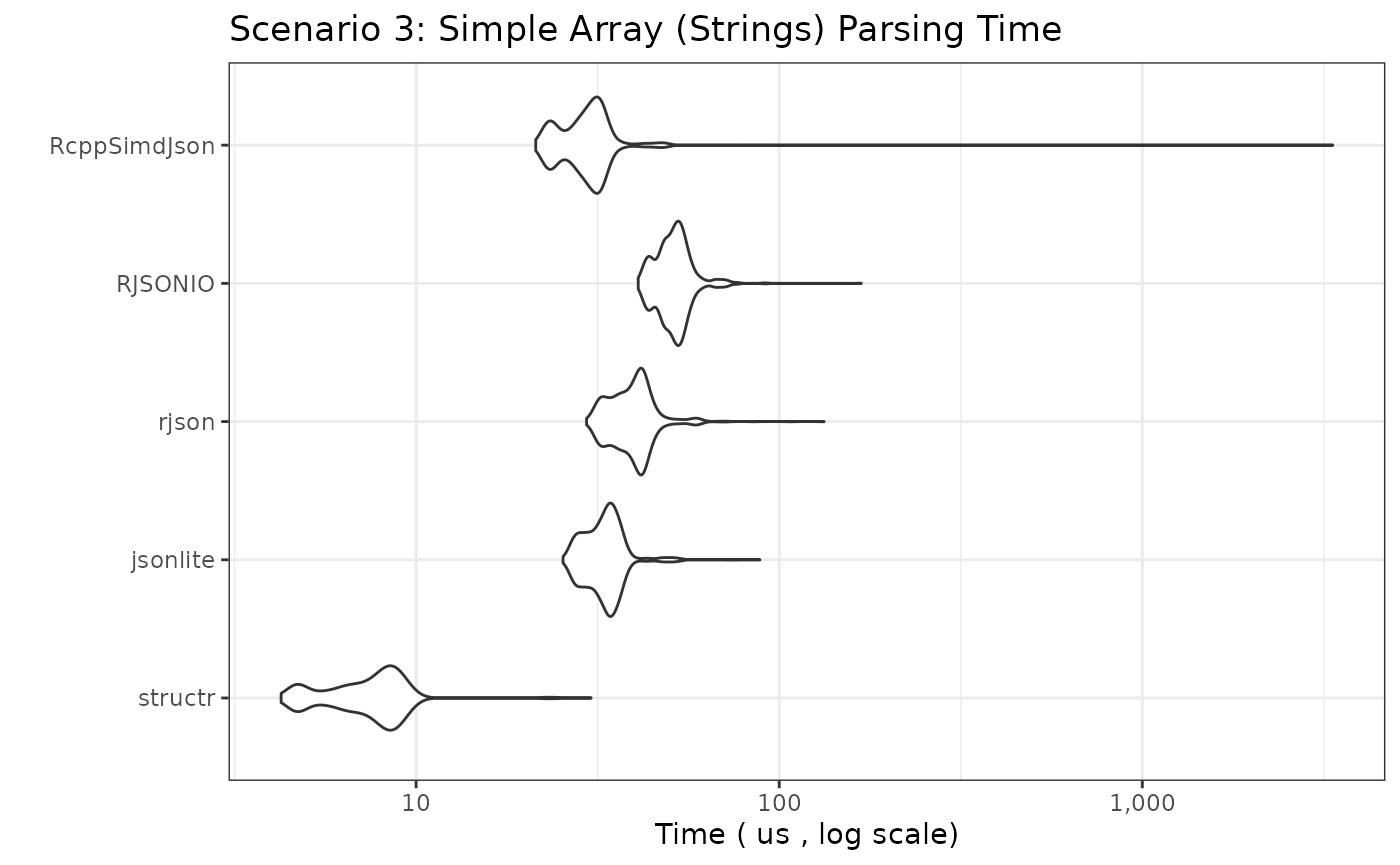
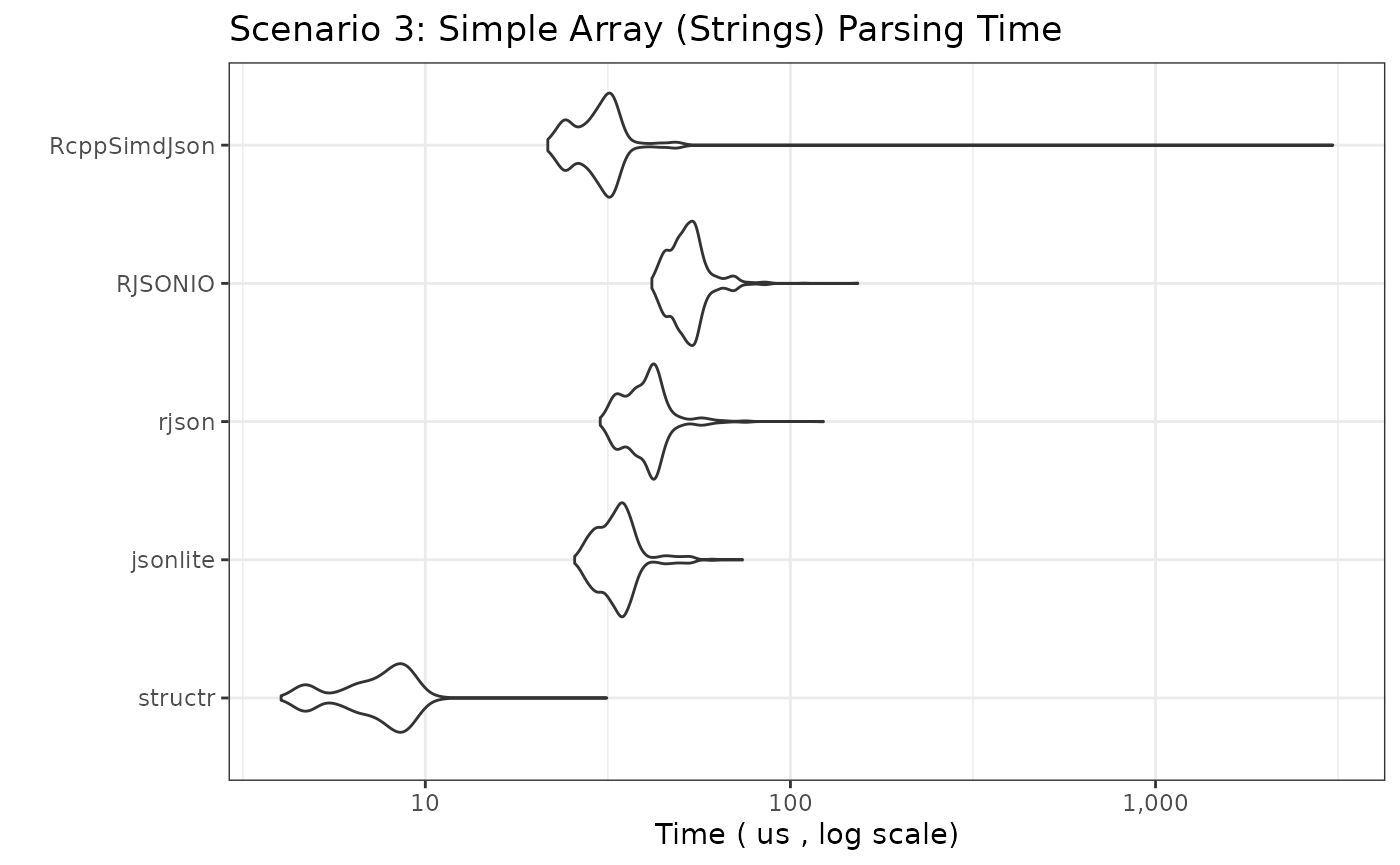
Deploying to gh-pages from @ ixpantia/structr@80949aa1ba5bb0932cfc9f256ea0445ccbe4c675 🚀

diff --git a/articles/bench.html b/articles/bench.html
@@ -161,11 +161,11 @@ speed.</p>
 <span><span class="op">)</span></span></code></pre></div>
 <pre><code><span><span class="co">## Unit: microseconds</span></span>
 <span><span class="co">##          expr    min      lq      mean  median      uq      max neval</span></span>
-<span><span class="co">##       structr  4.698  7.3180  9.256839  9.3575 10.5345   42.139  1000</span></span>
-<span><span class="co">##      jsonlite 41.658 49.8630 56.571854 53.1990 62.7470  134.792  1000</span></span>
-<span><span class="co">##         rjson 27.752 36.1070 44.893864 40.9360 45.5255 2759.507  1000</span></span>
-<span><span class="co">##       RJSONIO 33.923 42.7745 48.405070 47.2935 52.2120  120.584  1000</span></span>
-<span><span class="co">##  RcppSimdJson 20.859 27.6070 31.801147 30.7975 33.9635   83.676  1000</span></span></code></pre>
+<span><span class="co">##       structr  4.739  7.6195  9.531368  9.6075 10.7400   34.294  1000</span></span>
+<span><span class="co">##      jsonlite 42.359 50.8900 57.474889 54.3760 63.5180  150.040  1000</span></span>
+<span><span class="co">##         rjson 28.032 36.9490 45.327698 41.5925 46.6675 2754.062  1000</span></span>
+<span><span class="co">##       RJSONIO 35.386 43.6870 49.420515 48.2950 53.4000  112.721  1000</span></span>
+<span><span class="co">##  RcppSimdJson 20.979 28.3025 32.683047 31.7790 35.4560   69.149  1000</span></span></code></pre>
 <p><img src="bench_files/figure-html/bm_simple_object-1.png" width="700" style="display: block; margin: auto;"></p>
 </div>
 <div class="section level3">
@@ -186,12 +186,12 @@ speed.</p>
 <span>  y_label <span class="op">=</span> <span class="fu"><a href="https://rdrr.io/r/base/paste.html" class="external-link">paste</a></span><span class="op">(</span><span class="st">"Time ("</span>, <span class="va">benchmark_unit_fast</span>, <span class="st">", log scale)"</span><span class="op">)</span></span>
 <span><span class="op">)</span></span></code></pre></div>
 <pre><code><span><span class="co">## Unit: microseconds</span></span>
-<span><span class="co">##          expr    min      lq      mean  median      uq      max neval</span></span>
-<span><span class="co">##       structr  3.847  6.0410  7.711841  7.9445  8.9670   30.316  1000</span></span>
-<span><span class="co">##      jsonlite 32.481 38.0660 41.943541 41.5775 44.0070   94.826  1000</span></span>
-<span><span class="co">##         rjson 32.410 37.8505 43.138926 43.4510 46.3065  139.109  1000</span></span>
-<span><span class="co">##       RJSONIO 44.874 53.3295 57.747802 57.2065 60.4025  150.531  1000</span></span>
-<span><span class="co">##  RcppSimdJson 21.269 26.0690 33.347010 30.2520 32.7010 3604.793  1000</span></span></code></pre>
+<span><span class="co">##          expr    min      lq      mean  median     uq      max neval</span></span>
+<span><span class="co">##       structr  3.827  6.0865  7.612567  7.8450  8.926   27.732  1000</span></span>
+<span><span class="co">##      jsonlite 32.220 37.8110 41.422558 41.0520 43.581   82.504  1000</span></span>
+<span><span class="co">##         rjson 32.211 38.3315 43.097983 43.3655 46.246  114.724  1000</span></span>
+<span><span class="co">##       RJSONIO 45.965 53.3795 61.123997 57.5125 60.924 3058.931  1000</span></span>
+<span><span class="co">##  RcppSimdJson 21.270 26.0485 30.165365 30.5470 32.816   83.606  1000</span></span></code></pre>
 <p><img src="bench_files/figure-html/bm_simple_array_int-1.png" width="700" style="display: block; margin: auto;"></p>
 </div>
 <div class="section level3">
@@ -212,12 +212,12 @@ speed.</p>
 <span>  y_label <span class="op">=</span> <span class="fu"><a href="https://rdrr.io/r/base/paste.html" class="external-link">paste</a></span><span class="op">(</span><span class="st">"Time ("</span>, <span class="va">benchmark_unit_fast</span>, <span class="st">", log scale)"</span><span class="op">)</span></span>
 <span><span class="op">)</span></span></code></pre></div>
 <pre><code><span><span class="co">## Unit: microseconds</span></span>
-<span><span class="co">##          expr    min      lq      mean  median     uq      max neval</span></span>
-<span><span class="co">##       structr  4.248  6.1410  7.561703  7.7540  8.641   30.326  1000</span></span>
-<span><span class="co">##      jsonlite 25.388 30.0255 33.230057 33.2220 35.251   88.445  1000</span></span>
-<span><span class="co">##         rjson 29.475 35.4760 39.751817 39.7645 42.379  132.897  1000</span></span>
-<span><span class="co">##       RJSONIO 40.896 47.7545 51.535413 51.2760 54.221  168.193  1000</span></span>
-<span><span class="co">##  RcppSimdJson 21.350 25.9085 32.873964 29.8355 32.100 3346.923  1000</span></span></code></pre>
+<span><span class="co">##          expr    min      lq      mean  median      uq      max neval</span></span>
+<span><span class="co">##       structr  4.027  6.3515  7.577301  7.8150  8.7210   31.419  1000</span></span>
+<span><span class="co">##      jsonlite 25.648 30.4770 33.981053 33.5525 35.7825   73.928  1000</span></span>
+<span><span class="co">##         rjson 30.136 36.1425 40.461900 40.5205 43.0855  123.150  1000</span></span>
+<span><span class="co">##       RJSONIO 41.737 48.3950 52.873817 52.1170 55.3340  152.876  1000</span></span>
+<span><span class="co">##  RcppSimdJson 21.651 26.4750 33.131584 30.3515 32.5210 3058.911  1000</span></span></code></pre>
 <p><img src="bench_files/figure-html/bm_simple_array_str-1.png" width="700" style="display: block; margin: auto;"></p>
 </div>
 <div class="section level3">
@@ -240,11 +240,11 @@ speed.</p>
 <span><span class="op">)</span></span></code></pre></div>
 <pre><code><span><span class="co">## Unit: microseconds</span></span>
 <span><span class="co">##          expr    min      lq     mean  median      uq      max neval</span></span>
-<span><span class="co">##       structr 17.402 22.2415 25.67400 25.6175 27.7370   77.064  1000</span></span>
-<span><span class="co">##      jsonlite 26.640 33.0520 40.35122 36.9845 39.3990 2895.631  1000</span></span>
-<span><span class="co">##         rjson 40.756 50.5495 56.49097 56.1500 59.8870  129.882  1000</span></span>
-<span><span class="co">##       RJSONIO 53.791 63.1375 69.49026 68.1775 72.4455  180.036  1000</span></span>
-<span><span class="co">##  RcppSimdJson 28.183 36.3780 42.12792 42.6395 45.5055  142.045  1000</span></span></code></pre>
+<span><span class="co">##       structr 17.322 22.8525 25.73599 26.0490 27.9120   70.802  1000</span></span>
+<span><span class="co">##      jsonlite 25.969 34.0340 40.95289 37.7005 40.1900 2946.371  1000</span></span>
+<span><span class="co">##         rjson 41.428 51.7920 57.20000 57.3970 60.8890  123.110  1000</span></span>
+<span><span class="co">##       RJSONIO 54.662 64.5460 71.17018 70.0960 74.7045  179.987  1000</span></span>
+<span><span class="co">##  RcppSimdJson 29.305 37.2950 43.35819 43.6370 46.9630  136.004  1000</span></span></code></pre>
 <p><img src="bench_files/figure-html/bm_nested_object-1.png" width="700" style="display: block; margin: auto;"></p>
 </div>
 <div class="section level3">
@@ -266,11 +266,11 @@ speed.</p>
 <span><span class="op">)</span></span></code></pre></div>
 <pre><code><span><span class="co">## Unit: milliseconds</span></span>
 <span><span class="co">##          expr      min        lq       mean    median        uq      max neval</span></span>
-<span><span class="co">##       structr 0.171230 0.2144100 0.22876953 0.2237425 0.2383700 1.800418   500</span></span>
-<span><span class="co">##      jsonlite 0.122930 0.1528355 0.17053988 0.1593525 0.1645720 3.456418   500</span></span>
-<span><span class="co">##         rjson 0.161791 0.1765790 0.19106453 0.1879955 0.2042960 0.253563   500</span></span>
-<span><span class="co">##       RJSONIO 0.245959 0.2648645 0.27522247 0.2722280 0.2830225 0.458436   500</span></span>
-<span><span class="co">##  RcppSimdJson 0.054772 0.0670500 0.07984265 0.0756910 0.0927830 0.163876   500</span></span></code></pre>
+<span><span class="co">##       structr 0.174186 0.2154325 0.23050698 0.2263430 0.2425380 1.699343   500</span></span>
+<span><span class="co">##      jsonlite 0.121366 0.1523145 0.17155583 0.1604500 0.1672930 3.532615   500</span></span>
+<span><span class="co">##         rjson 0.160469 0.1769355 0.19340343 0.1901850 0.2074275 0.325307   500</span></span>
+<span><span class="co">##       RJSONIO 0.252802 0.2716820 0.28294108 0.2797825 0.2915600 0.409123   500</span></span>
+<span><span class="co">##  RcppSimdJson 0.055283 0.0671510 0.08172379 0.0777400 0.0958390 0.150201   500</span></span></code></pre>
 <p><img src="bench_files/figure-html/bm_array_of_objects-1.png" width="700" style="display: block; margin: auto;"></p>
 </div>
 <div class="section level3">
@@ -294,12 +294,12 @@ speed.</p>
 <span>  y_label <span class="op">=</span> <span class="fu"><a href="https://rdrr.io/r/base/paste.html" class="external-link">paste</a></span><span class="op">(</span><span class="st">"Time ("</span>, <span class="va">benchmark_unit_medium</span>, <span class="st">", log scale)"</span><span class="op">)</span></span>
 <span><span class="op">)</span></span></code></pre></div>
 <pre><code><span><span class="co">## Unit: milliseconds</span></span>
-<span><span class="co">##          expr      min       lq      mean   median       uq       max neval</span></span>
-<span><span class="co">##       structr 2.086121 2.289942 2.5512276 2.425238 2.584872 14.022816   500</span></span>
-<span><span class="co">##      jsonlite 1.423055 1.458395 1.5624584 1.486242 1.580453  6.976062   500</span></span>
-<span><span class="co">##         rjson 1.334108 1.390729 1.5714667 1.419704 1.544296  8.074190   500</span></span>
-<span><span class="co">##       RJSONIO 2.013996 2.181008 2.2585656 2.201075 2.274758  5.932686   500</span></span>
-<span><span class="co">##  RcppSimdJson 0.335646 0.356084 0.4190686 0.375841 0.414323  0.883177   500</span></span></code></pre>
+<span><span class="co">##          expr      min        lq      mean   median       uq       max neval</span></span>
+<span><span class="co">##       structr 1.986429 2.2419055 2.4553968 2.336216 2.473233 14.695656   500</span></span>
+<span><span class="co">##      jsonlite 1.375197 1.4279660 1.5303207 1.451615 1.526545  7.036176   500</span></span>
+<span><span class="co">##         rjson 1.336846 1.3897195 1.5510406 1.417456 1.586508  7.551719   500</span></span>
+<span><span class="co">##       RJSONIO 2.025120 2.1868580 2.2916822 2.208829 2.270634  7.335415   500</span></span>
+<span><span class="co">##  RcppSimdJson 0.338092 0.3614995 0.4206155 0.378687 0.408423  0.650985   500</span></span></code></pre>
 <p><img src="bench_files/figure-html/bm_large_array_of_objects-1.png" width="700" style="display: block; margin: auto;"></p>
 </div>
 <div class="section level3">
@@ -322,12 +322,12 @@ speed.</p>
 <span>  y_label <span class="op">=</span> <span class="fu"><a href="https://rdrr.io/r/base/paste.html" class="external-link">paste</a></span><span class="op">(</span><span class="st">"Time ("</span>, <span class="va">benchmark_unit_medium</span>, <span class="st">", log scale)"</span><span class="op">)</span></span>
 <span><span class="op">)</span></span></code></pre></div>
 <pre><code><span><span class="co">## Unit: milliseconds</span></span>
-<span><span class="co">##          expr      min       lq      mean   median        uq       max neval</span></span>
-<span><span class="co">##       structr 0.185997 0.194157 0.2106096 0.204332 0.2231165  0.329785   500</span></span>
-<span><span class="co">##      jsonlite 2.281285 2.648745 2.8315660 2.726360 2.8397815  7.605797   500</span></span>
-<span><span class="co">##         rjson 1.046432 1.066715 1.1640075 1.088295 1.1114280 12.109588   500</span></span>
-<span><span class="co">##       RJSONIO 2.535599 2.576726 2.6958989 2.595681 2.6249510  7.532319   500</span></span>
-<span><span class="co">##  RcppSimdJson 0.190896 0.203731 0.2251118 0.216093 0.2417710  0.385359   500</span></span></code></pre>
+<span><span class="co">##          expr      min        lq      mean    median        uq       max neval</span></span>
+<span><span class="co">##       structr 0.185797 0.1936065 0.2078925 0.2000630 0.2204365  0.331228   500</span></span>
+<span><span class="co">##      jsonlite 2.258808 2.6054090 2.7719932 2.6792170 2.7676675 12.109067   500</span></span>
+<span><span class="co">##         rjson 1.039150 1.0654790 1.1567090 1.0788395 1.1047925 12.110981   500</span></span>
+<span><span class="co">##       RJSONIO 2.554389 2.6021480 2.7123386 2.6177225 2.6400540  7.266867   500</span></span>
+<span><span class="co">##  RcppSimdJson 0.189203 0.2030140 0.2203757 0.2122915 0.2365670  0.351796   500</span></span></code></pre>
 <p><img src="bench_files/figure-html/bm_large_array_int-1.png" width="700" style="display: block; margin: auto;"></p>
 </div>
 <div class="section level3">
@@ -351,11 +351,11 @@ speed.</p>
 <span><span class="op">)</span></span></code></pre></div>
 <pre><code><span><span class="co">## Unit: milliseconds</span></span>
 <span><span class="co">##          expr      min       lq      mean    median        uq       max neval</span></span>
-<span><span class="co">##       structr 0.676182 0.693684 0.7151492 0.7048600 0.7302270  1.157098   500</span></span>
-<span><span class="co">##      jsonlite 2.233497 2.378787 2.5688675 2.4585105 2.6023795 12.069793   500</span></span>
-<span><span class="co">##         rjson 1.336533 1.361044 1.4736492 1.3825140 1.4172790  6.453237   500</span></span>
-<span><span class="co">##       RJSONIO 3.489528 3.537819 3.6724960 3.5605710 3.5911285  8.497150   500</span></span>
-<span><span class="co">##  RcppSimdJson 0.643150 0.664184 0.6885262 0.6789315 0.7084065  1.222230   500</span></span></code></pre>
+<span><span class="co">##       structr 0.674389 0.694186 0.7159985 0.7046555 0.7303840  1.102488   500</span></span>
+<span><span class="co">##      jsonlite 2.252555 2.375455 2.5490808 2.4516975 2.6007410 12.412604   500</span></span>
+<span><span class="co">##         rjson 1.299527 1.327723 1.4289570 1.3453065 1.3783135  5.973203   500</span></span>
+<span><span class="co">##       RJSONIO 3.436827 3.497781 3.6296829 3.5207730 3.5551575  8.331405   500</span></span>
+<span><span class="co">##  RcppSimdJson 0.634154 0.656706 0.6811816 0.6703460 0.7008585  1.223705   500</span></span></code></pre>
 <p><img src="bench_files/figure-html/bm_large_array_str-1.png" width="700" style="display: block; margin: auto;"></p>
 </div>
 <div class="section level3">
@@ -377,12 +377,12 @@ speed.</p>
 <span>  y_label <span class="op">=</span> <span class="fu"><a href="https://rdrr.io/r/base/paste.html" class="external-link">paste</a></span><span class="op">(</span><span class="st">"Time ("</span>, <span class="va">benchmark_unit_fast</span>, <span class="st">", log scale)"</span><span class="op">)</span></span>
 <span><span class="op">)</span></span></code></pre></div>
 <pre><code><span><span class="co">## Unit: microseconds</span></span>
-<span><span class="co">##          expr    min      lq      mean  median      uq       max neval</span></span>
-<span><span class="co">##       structr 12.824 15.7545  17.97761 17.8985 19.1160    50.975  1000</span></span>
-<span><span class="co">##      jsonlite 16.831 19.5820  22.23774 22.4165 23.8750    78.556  1000</span></span>
-<span><span class="co">##         rjson 29.786 35.0055  39.54896 39.8340 42.3190   118.672  1000</span></span>
-<span><span class="co">##       RJSONIO 37.189 44.3875 136.73761 48.0495 50.9045 88209.502  1000</span></span>
-<span><span class="co">##  RcppSimdJson 23.343 27.7215  31.48806 31.6690 33.7030    77.474  1000</span></span></code></pre>
+<span><span class="co">##          expr    min      lq      mean median      uq       max neval</span></span>
+<span><span class="co">##       structr 12.694 15.9150  17.94394 17.923 19.3360    56.666  1000</span></span>
+<span><span class="co">##      jsonlite 16.431 19.8170  22.57456 22.452 24.1300    71.123  1000</span></span>
+<span><span class="co">##         rjson 29.916 35.8120  40.18560 40.461 43.1355   110.686  1000</span></span>
+<span><span class="co">##       RJSONIO 38.842 45.4745 136.76639 49.202 52.5380 87077.703  1000</span></span>
+<span><span class="co">##  RcppSimdJson 23.263 27.8970  32.07394 32.035 34.3440    83.666  1000</span></span></code></pre>
 <p><img src="bench_files/figure-html/bm_deep_nest-1.png" width="700" style="display: block; margin: auto;"></p>
 </div>
 <div class="section level3">
@@ -405,11 +405,11 @@ speed.</p>
 <span><span class="op">)</span></span></code></pre></div>
 <pre><code><span><span class="co">## Unit: milliseconds</span></span>
 <span><span class="co">##          expr      min        lq       mean    median        uq      max neval</span></span>
-<span><span class="co">##       structr 0.057447 0.0674160 0.07238841 0.0715485 0.0747490 0.125975   500</span></span>
-<span><span class="co">##      jsonlite 0.039704 0.0488615 0.05292517 0.0526685 0.0554635 0.115024   500</span></span>
-<span><span class="co">##         rjson 0.062276 0.0711080 0.08825464 0.0776550 0.0817430 5.166678   500</span></span>
-<span><span class="co">##       RJSONIO 0.080410 0.0887505 0.09661869 0.0950275 0.1004920 0.196005   500</span></span>
-<span><span class="co">##  RcppSimdJson 0.032621 0.0403300 0.04650406 0.0460960 0.0505090 0.105847   500</span></span></code></pre>
+<span><span class="co">##       structr 0.059050 0.0679365 0.07280493 0.0716240 0.0749045 0.115245   500</span></span>
+<span><span class="co">##      jsonlite 0.039624 0.0495675 0.05371117 0.0532045 0.0560545 0.108112   500</span></span>
+<span><span class="co">##         rjson 0.062907 0.0723400 0.08943322 0.0788620 0.0838970 5.003141   500</span></span>
+<span><span class="co">##       RJSONIO 0.084147 0.0918615 0.10016670 0.0981340 0.1050160 0.185957   500</span></span>
+<span><span class="co">##  RcppSimdJson 0.032791 0.0406510 0.04706820 0.0465415 0.0516110 0.116617   500</span></span></code></pre>
 <p><img src="bench_files/figure-html/bm_wide_object-1.png" width="700" style="display: block; margin: auto;"></p>
 </div>
 </div>

diff --git a/articles/getting_started.html b/articles/getting_started.html
@@ -109,16 +109,16 @@ will be used to parse or serialize the structures we want.</p>
 <span><span class="co">#&gt; Map {</span></span>
 <span><span class="co">#&gt;     fields: {</span></span>
 <span><span class="co">#&gt;         "x": Integer,</span></span>
-<span><span class="co">#&gt;         "y": Double,</span></span>
 <span><span class="co">#&gt;         "z": Optional(</span></span>
 <span><span class="co">#&gt;             String,</span></span>
 <span><span class="co">#&gt;         ),</span></span>
+<span><span class="co">#&gt;         "y": Double,</span></span>
 <span><span class="co">#&gt;     },</span></span>
 <span><span class="co">#&gt;     ignore_extra_fields: false,</span></span>
 <span><span class="co">#&gt;     expected_fields_str: [</span></span>
 <span><span class="co">#&gt;         "x",</span></span>
-<span><span class="co">#&gt;         "y",</span></span>
 <span><span class="co">#&gt;         "z",</span></span>
+<span><span class="co">#&gt;         "y",</span></span>
 <span><span class="co">#&gt;     ],</span></span>
 <span><span class="co">#&gt; }</span></span></code></pre></div>
 </div>
@@ -197,11 +197,11 @@ string.</p>
 <div class="sourceCode" id="cb7"><pre class="downlit sourceCode r">
 <code class="sourceCode R"><span><span class="va">r_list</span> <span class="op">&lt;-</span> <span class="fu"><a href="https://rdrr.io/r/base/list.html" class="external-link">list</a></span><span class="op">(</span>x <span class="op">=</span> <span class="fl">1L</span>, y <span class="op">=</span> <span class="fl">99.9</span>, z <span class="op">=</span> <span class="st">"value"</span><span class="op">)</span></span>
 <span><span class="fu"><a href="../reference/serialize_json.html">serialize_json</a></span><span class="op">(</span><span class="va">r_list</span>, <span class="va">structure_basic</span><span class="op">)</span></span>
-<span><span class="co">#&gt; {"x":1,"y":99.9,"z":"value"}</span></span>
+<span><span class="co">#&gt; {"x":1,"z":"value","y":99.9}</span></span>
 <span></span>
 <span><span class="va">r_list_null_z</span> <span class="op">&lt;-</span> <span class="fu"><a href="https://rdrr.io/r/base/list.html" class="external-link">list</a></span><span class="op">(</span>x <span class="op">=</span> <span class="fl">2L</span>, y <span class="op">=</span> <span class="fl">100.1</span><span class="op">)</span></span>
 <span><span class="fu"><a href="../reference/serialize_json.html">serialize_json</a></span><span class="op">(</span><span class="va">r_list_null_z</span>, <span class="va">structure_basic</span><span class="op">)</span></span>
-<span><span class="co">#&gt; {"x":2,"y":100.1,"z":null}</span></span></code></pre></div>
+<span><span class="co">#&gt; {"x":2,"z":null,"y":100.1}</span></span></code></pre></div>
 <p>If the R object doesn’t match the structure (e.g., wrong type,
 missing required field), <code>serialize_json</code> will raise an
 error.</p>
@@ -485,47 +485,47 @@ requirements for serialization:</p>
 <span><span class="fu"><a href="https://rdrr.io/r/base/print.html" class="external-link">print</a></span><span class="op">(</span><span class="va">compiled_log_entry_structure_serialize</span><span class="op">)</span></span>
 <span><span class="co">#&gt; Map {</span></span>
 <span><span class="co">#&gt;     fields: {</span></span>
-<span><span class="co">#&gt;         "userId": Integer,</span></span>
+<span><span class="co">#&gt;         "eventId": String,</span></span>
 <span><span class="co">#&gt;         "eventDate": Date {</span></span>
 <span><span class="co">#&gt;             format: "%Y%m%d",</span></span>
 <span><span class="co">#&gt;         },</span></span>
 <span><span class="co">#&gt;         "details": Map {</span></span>
 <span><span class="co">#&gt;             fields: {</span></span>
-<span><span class="co">#&gt;                 "source": String,</span></span>
 <span><span class="co">#&gt;                 "metadata": Optional(</span></span>
 <span><span class="co">#&gt;                     Map {</span></span>
 <span><span class="co">#&gt;                         fields: {</span></span>
-<span><span class="co">#&gt;                             "value": Optional(</span></span>
-<span><span class="co">#&gt;                                 Double,</span></span>
-<span><span class="co">#&gt;                             ),</span></span>
 <span><span class="co">#&gt;                             "key": Optional(</span></span>
 <span><span class="co">#&gt;                                 String,</span></span>
+<span><span class="co">#&gt;                             ),</span></span>
+<span><span class="co">#&gt;                             "value": Optional(</span></span>
+<span><span class="co">#&gt;                                 Double,</span></span>
 <span><span class="co">#&gt;                             ),</span></span>
 <span><span class="co">#&gt;                         },</span></span>
 <span><span class="co">#&gt;                         ignore_extra_fields: false,</span></span>
 <span><span class="co">#&gt;                         expected_fields_str: [</span></span>
-<span><span class="co">#&gt;                             "value",</span></span>
 <span><span class="co">#&gt;                             "key",</span></span>
+<span><span class="co">#&gt;                             "value",</span></span>
 <span><span class="co">#&gt;                         ],</span></span>
 <span><span class="co">#&gt;                     },</span></span>
 <span><span class="co">#&gt;                 ),</span></span>
+<span><span class="co">#&gt;                 "source": String,</span></span>
 <span><span class="co">#&gt;             },</span></span>
 <span><span class="co">#&gt;             ignore_extra_fields: false,</span></span>
 <span><span class="co">#&gt;             expected_fields_str: [</span></span>
-<span><span class="co">#&gt;                 "source",</span></span>
 <span><span class="co">#&gt;                 "metadata",</span></span>
+<span><span class="co">#&gt;                 "source",</span></span>
 <span><span class="co">#&gt;             ],</span></span>
 <span><span class="co">#&gt;         },</span></span>
+<span><span class="co">#&gt;         "userId": Integer,</span></span>
 <span><span class="co">#&gt;         "eventType": String,</span></span>
-<span><span class="co">#&gt;         "eventId": String,</span></span>
 <span><span class="co">#&gt;     },</span></span>
 <span><span class="co">#&gt;     ignore_extra_fields: false,</span></span>
 <span><span class="co">#&gt;     expected_fields_str: [</span></span>
-<span><span class="co">#&gt;         "userId",</span></span>
+<span><span class="co">#&gt;         "eventId",</span></span>
 <span><span class="co">#&gt;         "eventDate",</span></span>
 <span><span class="co">#&gt;         "details",</span></span>
+<span><span class="co">#&gt;         "userId",</span></span>
 <span><span class="co">#&gt;         "eventType",</span></span>
-<span><span class="co">#&gt;         "eventId",</span></span>
 <span><span class="co">#&gt;     ],</span></span>
 <span><span class="co">#&gt; }</span></span></code></pre></div>
 <p>Now, let’s create some R data that we want to send to this API. It’s
@@ -592,46 +592,46 @@ before producing the JSON.</p>
 <code class="sourceCode R"><span><span class="co"># Serialize Example 1</span></span>
 <span><span class="fu"><a href="../reference/serialize_json.html">serialize_json</a></span><span class="op">(</span><span class="va">log_entry_data_1</span>, <span class="va">compiled_log_entry_structure_serialize</span>, pretty <span class="op">=</span> <span class="cn">TRUE</span><span class="op">)</span></span>
 <span><span class="co">#&gt; {</span></span>
-<span><span class="co">#&gt;   "userId": 12345,</span></span>
+<span><span class="co">#&gt;   "eventId": "evt-aaa-001",</span></span>
 <span><span class="co">#&gt;   "eventDate": "20240815",</span></span>
 <span><span class="co">#&gt;   "details": {</span></span>
-<span><span class="co">#&gt;     "source": "web_frontend",</span></span>
 <span><span class="co">#&gt;     "metadata": {</span></span>
-<span><span class="co">#&gt;       "value": 350.5,</span></span>
-<span><span class="co">#&gt;       "key": "session_duration"</span></span>
-<span><span class="co">#&gt;     }</span></span>
+<span><span class="co">#&gt;       "key": "session_duration",</span></span>
+<span><span class="co">#&gt;       "value": 350.5</span></span>
+<span><span class="co">#&gt;     },</span></span>
+<span><span class="co">#&gt;     "source": "web_frontend"</span></span>
 <span><span class="co">#&gt;   },</span></span>
-<span><span class="co">#&gt;   "eventType": "user_login",</span></span>
-<span><span class="co">#&gt;   "eventId": "evt-aaa-001"</span></span>
+<span><span class="co">#&gt;   "userId": 12345,</span></span>
+<span><span class="co">#&gt;   "eventType": "user_login"</span></span>
 <span><span class="co">#&gt; }</span></span>
 <span></span>
 <span><span class="co"># Serialize Example 2</span></span>
 <span><span class="fu"><a href="../reference/serialize_json.html">serialize_json</a></span><span class="op">(</span><span class="va">log_entry_data_2</span>, <span class="va">compiled_log_entry_structure_serialize</span>, pretty <span class="op">=</span> <span class="cn">TRUE</span><span class="op">)</span></span>
 <span><span class="co">#&gt; {</span></span>
-<span><span class="co">#&gt;   "userId": 98765,</span></span>
+<span><span class="co">#&gt;   "eventId": "evt-bbb-002",</span></span>
 <span><span class="co">#&gt;   "eventDate": "20240816",</span></span>
 <span><span class="co">#&gt;   "details": {</span></span>
-<span><span class="co">#&gt;     "source": "mobile_app",</span></span>
-<span><span class="co">#&gt;     "metadata": null</span></span>
+<span><span class="co">#&gt;     "metadata": null,</span></span>
+<span><span class="co">#&gt;     "source": "mobile_app"</span></span>
 <span><span class="co">#&gt;   },</span></span>
-<span><span class="co">#&gt;   "eventType": "page_view",</span></span>
-<span><span class="co">#&gt;   "eventId": "evt-bbb-002"</span></span>
+<span><span class="co">#&gt;   "userId": 98765,</span></span>
+<span><span class="co">#&gt;   "eventType": "page_view"</span></span>
 <span><span class="co">#&gt; }</span></span>
 <span></span>
 <span><span class="co"># Serialize Example 3</span></span>
 <span><span class="fu"><a href="../reference/serialize_json.html">serialize_json</a></span><span class="op">(</span><span class="va">log_entry_data_3</span>, <span class="va">compiled_log_entry_structure_serialize</span>, pretty <span class="op">=</span> <span class="cn">TRUE</span><span class="op">)</span></span>
 <span><span class="co">#&gt; {</span></span>
-<span><span class="co">#&gt;   "userId": 12345,</span></span>
+<span><span class="co">#&gt;   "eventId": "evt-ccc-003",</span></span>
 <span><span class="co">#&gt;   "eventDate": "20240817",</span></span>
 <span><span class="co">#&gt;   "details": {</span></span>
-<span><span class="co">#&gt;     "source": "web_frontend",</span></span>
 <span><span class="co">#&gt;     "metadata": {</span></span>
-<span><span class="co">#&gt;       "value": null,</span></span>
-<span><span class="co">#&gt;       "key": null</span></span>
-<span><span class="co">#&gt;     }</span></span>
+<span><span class="co">#&gt;       "key": null,</span></span>
+<span><span class="co">#&gt;       "value": null</span></span>
+<span><span class="co">#&gt;     },</span></span>
+<span><span class="co">#&gt;     "source": "web_frontend"</span></span>
 <span><span class="co">#&gt;   },</span></span>
-<span><span class="co">#&gt;   "eventType": "item_click",</span></span>
-<span><span class="co">#&gt;   "eventId": "evt-ccc-003"</span></span>
+<span><span class="co">#&gt;   "userId": 12345,</span></span>
+<span><span class="co">#&gt;   "eventType": "item_click"</span></span>
 <span><span class="co">#&gt; }</span></span></code></pre></div>
 <p>Now, let’s see what happens if our R data <em>doesn’t</em> conform to
 the structure expected by the API schema.</p>

diff --git a/reference/serialize_json.html b/reference/serialize_json.html
@@ -111,7 +111,7 @@ format.</p>
 <span class="r-in"><span><span class="op">)</span><span class="op">)</span></span></span>
 <span class="r-in"><span><span class="va">json_string</span> <span class="op">&lt;-</span> <span class="fu">serialize_json</span><span class="op">(</span><span class="va">data</span>, <span class="va">structure</span><span class="op">)</span></span></span>
 <span class="r-in"><span><span class="fu"><a href="https://rdrr.io/r/base/print.html" class="external-link">print</a></span><span class="op">(</span><span class="va">json_string</span><span class="op">)</span></span></span>
-<span class="r-out co"><span class="r-pr">#&gt;</span> {"value":123,"active":true,"name":"Test"} </span>
+<span class="r-out co"><span class="r-pr">#&gt;</span> {"active":true,"value":123,"name":"Test"} </span>
 </code></pre></div>
     </div>
   </main><aside class="col-md-3"><nav id="toc" aria-label="Table of contents"><h2>On this page</h2>
